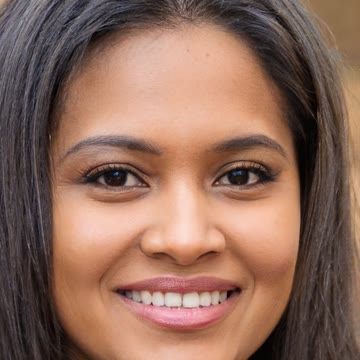
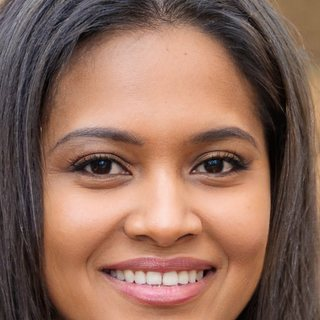
Realistic demo portraits for caregivers (AI-generated, no real people)
Claude-Session: https://claude.ai/code/session_01NWhkqr56woQ3sFy7KzMY3R

diff --git a/kuidao/src/lib/avatar.ts b/kuidao/src/lib/avatar.ts
@@ -1,14 +1,33 @@
 import { createAvatar } from "@dicebear/core";
 import * as notionists from "@dicebear/notionists";
 
+/**
+ * Demo profile photos: photorealistic AI-generated portraits (thispersondoesnotexist.com),
+ * so no real person is shown. Real caregivers upload their own photo.
+ */
+const PHOTOS: Record<string, string> = {
+  "Xiomara R": "/people/xiomara.jpg",
+  "Niurka D": "/people/niurka.jpg",
+  "Jennifer L": "/people/jennifer.jpg",
+  "Marbelin A": "/people/marbelin.jpg",
+  "Yanelis M": "/people/yanelis.jpg",
+  "Daniel S": "/people/daniel.jpg",
+  "Odalys F": "/people/odalys.jpg",
+  "Keisha B": "/people/keisha.jpg",
+  "Mayelin C": "/people/mayelin.jpg",
+  "Rosa V": "/people/rosa.jpg",
+  "Lázaro P": "/people/lazaro.jpg",
+  "Gisela N": "/people/gisela.jpg",
+  "María L": "/people/maria.jpg",
+};
+
 const cache = new Map<string, string>();
 const BACKGROUNDS = ["e6eaf0", "dfe5ee", "e9ecf2", "dde3ea"];
 
-/**
- * Illustrated profile picture (DiceBear "Notionists", CC0), generated locally.
- * Demo stand-in for the photo a caregiver uploads to their profile.
- */
+/** Profile picture for a demo name ("Xiomara R"). Falls back to a neutral illustration for names without a photo. */
 export function avatarUri(seed: string) {
+  const photo = PHOTOS[seed.replace(/\.$/, "").trim()];
+  if (photo) return photo;
   let uri = cache.get(seed);
   if (!uri) {
     uri = createAvatar(notionists, { seed, backgroundColor: BACKGROUNDS, radius: 50 }).toDataUri();

diff --git a/kuidao/src/components/hero-demo.tsx b/kuidao/src/components/hero-demo.tsx
@@ -5,6 +5,7 @@ import { Check, Zap } from "lucide-react";
 import { Avatar } from "@/components/ui/avatar";
 import { Badge, type Tone } from "@/components/ui/badge";
 import { ScoreRing } from "@/components/ui/score-ring";
+import { avatarUri } from "@/lib/avatar";
 
 const ROWS = [
   { name: "Xiomara R.", meta: "HHA · 0.5 mi · knows client", score: 96 },
@@ -56,6 +57,8 @@ export function HeroDemo() {
             return (
               <li key={r.name} className={`flex items-center gap-3 px-5 py-3 transition-colors ${label === "Interested" ? "bg-ok/10" : ""}`}>
                 <ScoreRing score={r.score} size={38} />
+                {/* eslint-disable-next-line @next/next/no-img-element */}
+                <img src={avatarUri(r.name)} alt="" className="size-9 shrink-0 rounded-full object-cover ring-1 ring-line" />
                 <div className="min-w-0 flex-1">
                   <p className="text-sm font-semibold">{r.name}</p>
                   <p className="truncate text-xs text-muted">{r.meta}</p>
